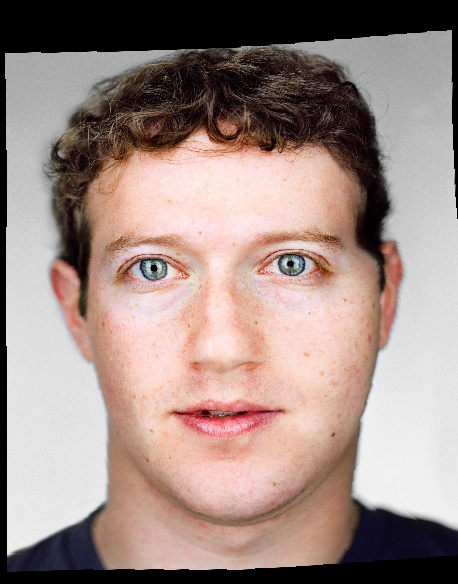
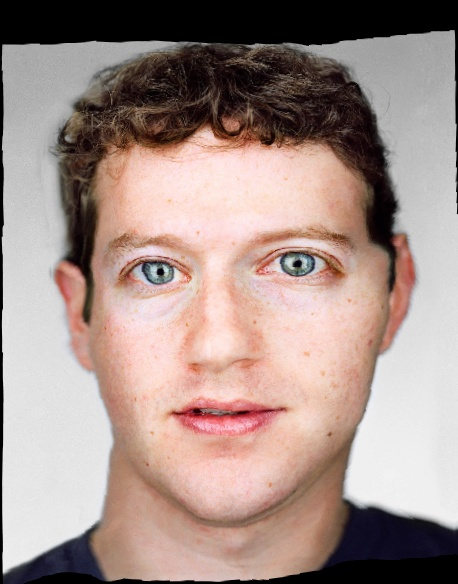
dense flow esquisito

diff --git a/dense_flow.py b/dense_flow.py
@@ -1,0 +1,46 @@
+import cv2
+import numpy as np
+
+
+def _get_structure(img):
+
+    gray = cv2.cvtColor(img, cv2.COLOR_BGR2GRAY)
+
+    gray = cv2.GaussianBlur(gray, (5, 5), 0)
+
+    grad_x = cv2.Sobel(gray, cv2.CV_64F, 1, 0, ksize=5)
+    grad_y = cv2.Sobel(gray, cv2.CV_64F, 0, 1, ksize=5)
+
+    gradient = cv2.magnitude(grad_x, grad_y)
+
+    gradient = cv2.normalize(gradient, None, 0, 255, cv2.NORM_MINMAX).astype(np.uint8)
+
+    return gradient
+
+
+def apply_adjustment(target_img: cv2.typing.MatLike, source_img: cv2.typing.MatLike) -> cv2.typing.MatLike:
+    target_struct = _get_structure(target_img)
+    source_struct = _get_structure(source_img)
+
+    flow = cv2.calcOpticalFlowFarneback(
+        target_struct,
+        source_struct,
+        None,
+        pyr_scale=0.5,
+        levels=3,
+        winsize=25,
+        iterations=3,
+        poly_n=7,
+        poly_sigma=1.5,
+        flags=0
+    )
+
+    h, w = flow.shape[:2]
+    grid_y, grid_x = np.mgrid[0:h, 0:w].astype(np.float32)
+
+    map_x = grid_x + (flow[..., 0] * 0.8)
+    map_y = grid_y + (flow[..., 1] * 0.8)
+
+    final_img = cv2.remap(source_img, map_x, map_y, interpolation=cv2.INTER_LINEAR, borderMode=cv2.BORDER_REFLECT)
+
+    return final_img

diff --git a/main.py b/main.py
@@ -2,22 +2,27 @@ import sys
 import utils
 import face_correspondence
 import morphing
-
+import dense_flow
 
 def main(arg1: str, arg2: str):
     try:
         input_img = utils.read_image(arg1)
         example_img = utils.read_image(arg2)
 
+        # Alinhamento Afim
         points_input, points_example = face_correspondence._detect_landmarks(input_img, example_img)
 
         affine_matrix = face_correspondence._affine_transform(points_example, points_input)
         aligned_example = utils.cv2.warpAffine(example_img, affine_matrix, (input_img.shape[1], input_img.shape[0]))
 
+        # Morphing de Beier and Neely
         points_aligned_example, _ = face_correspondence._detect_landmarks(aligned_example, input_img)
-        output = morphing.beier_neely(aligned_example, points_aligned_example, points_input)
+        morphed_output = morphing.beier_neely(aligned_example, points_aligned_example, points_input)
 
-        utils.save_image(output, "data/output2.jpg")
+        # Optical Flow (SIFT)
+        final_output = dense_flow.apply_adjustment(input_img, morphed_output)
+
+        utils.save_image(final_output, "data/output3.jpg")
 
     except Exception as e:
         import traceback
